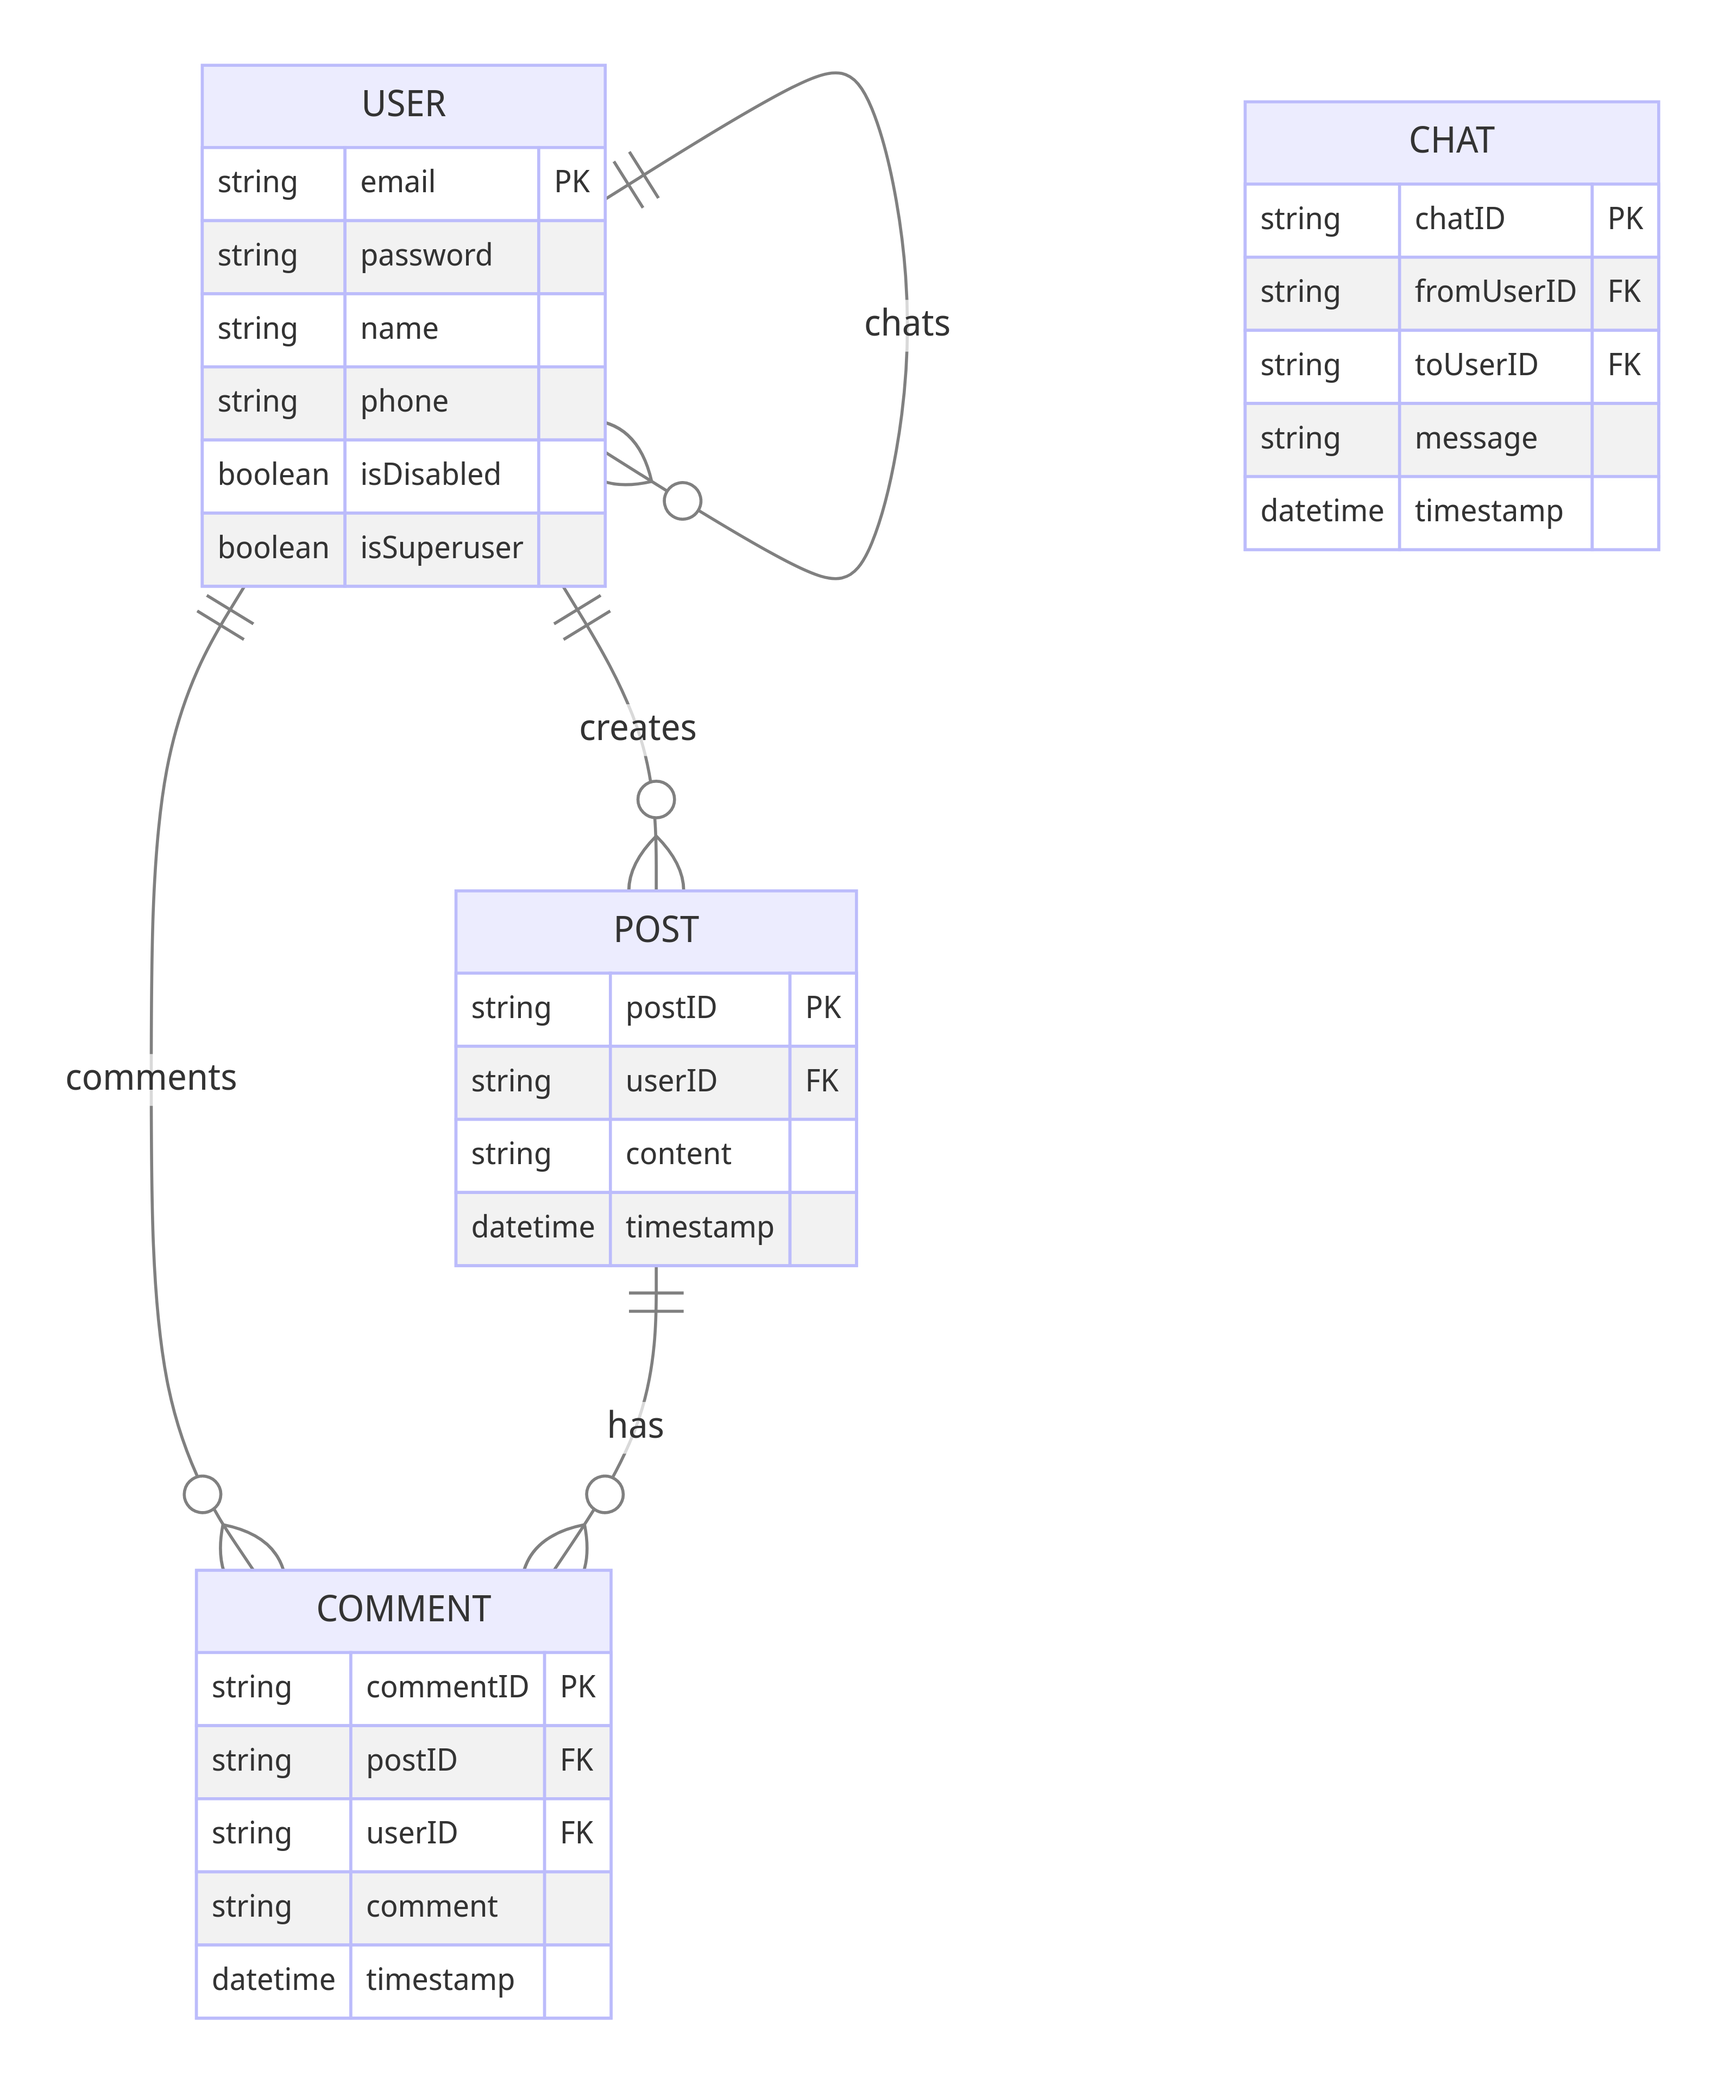
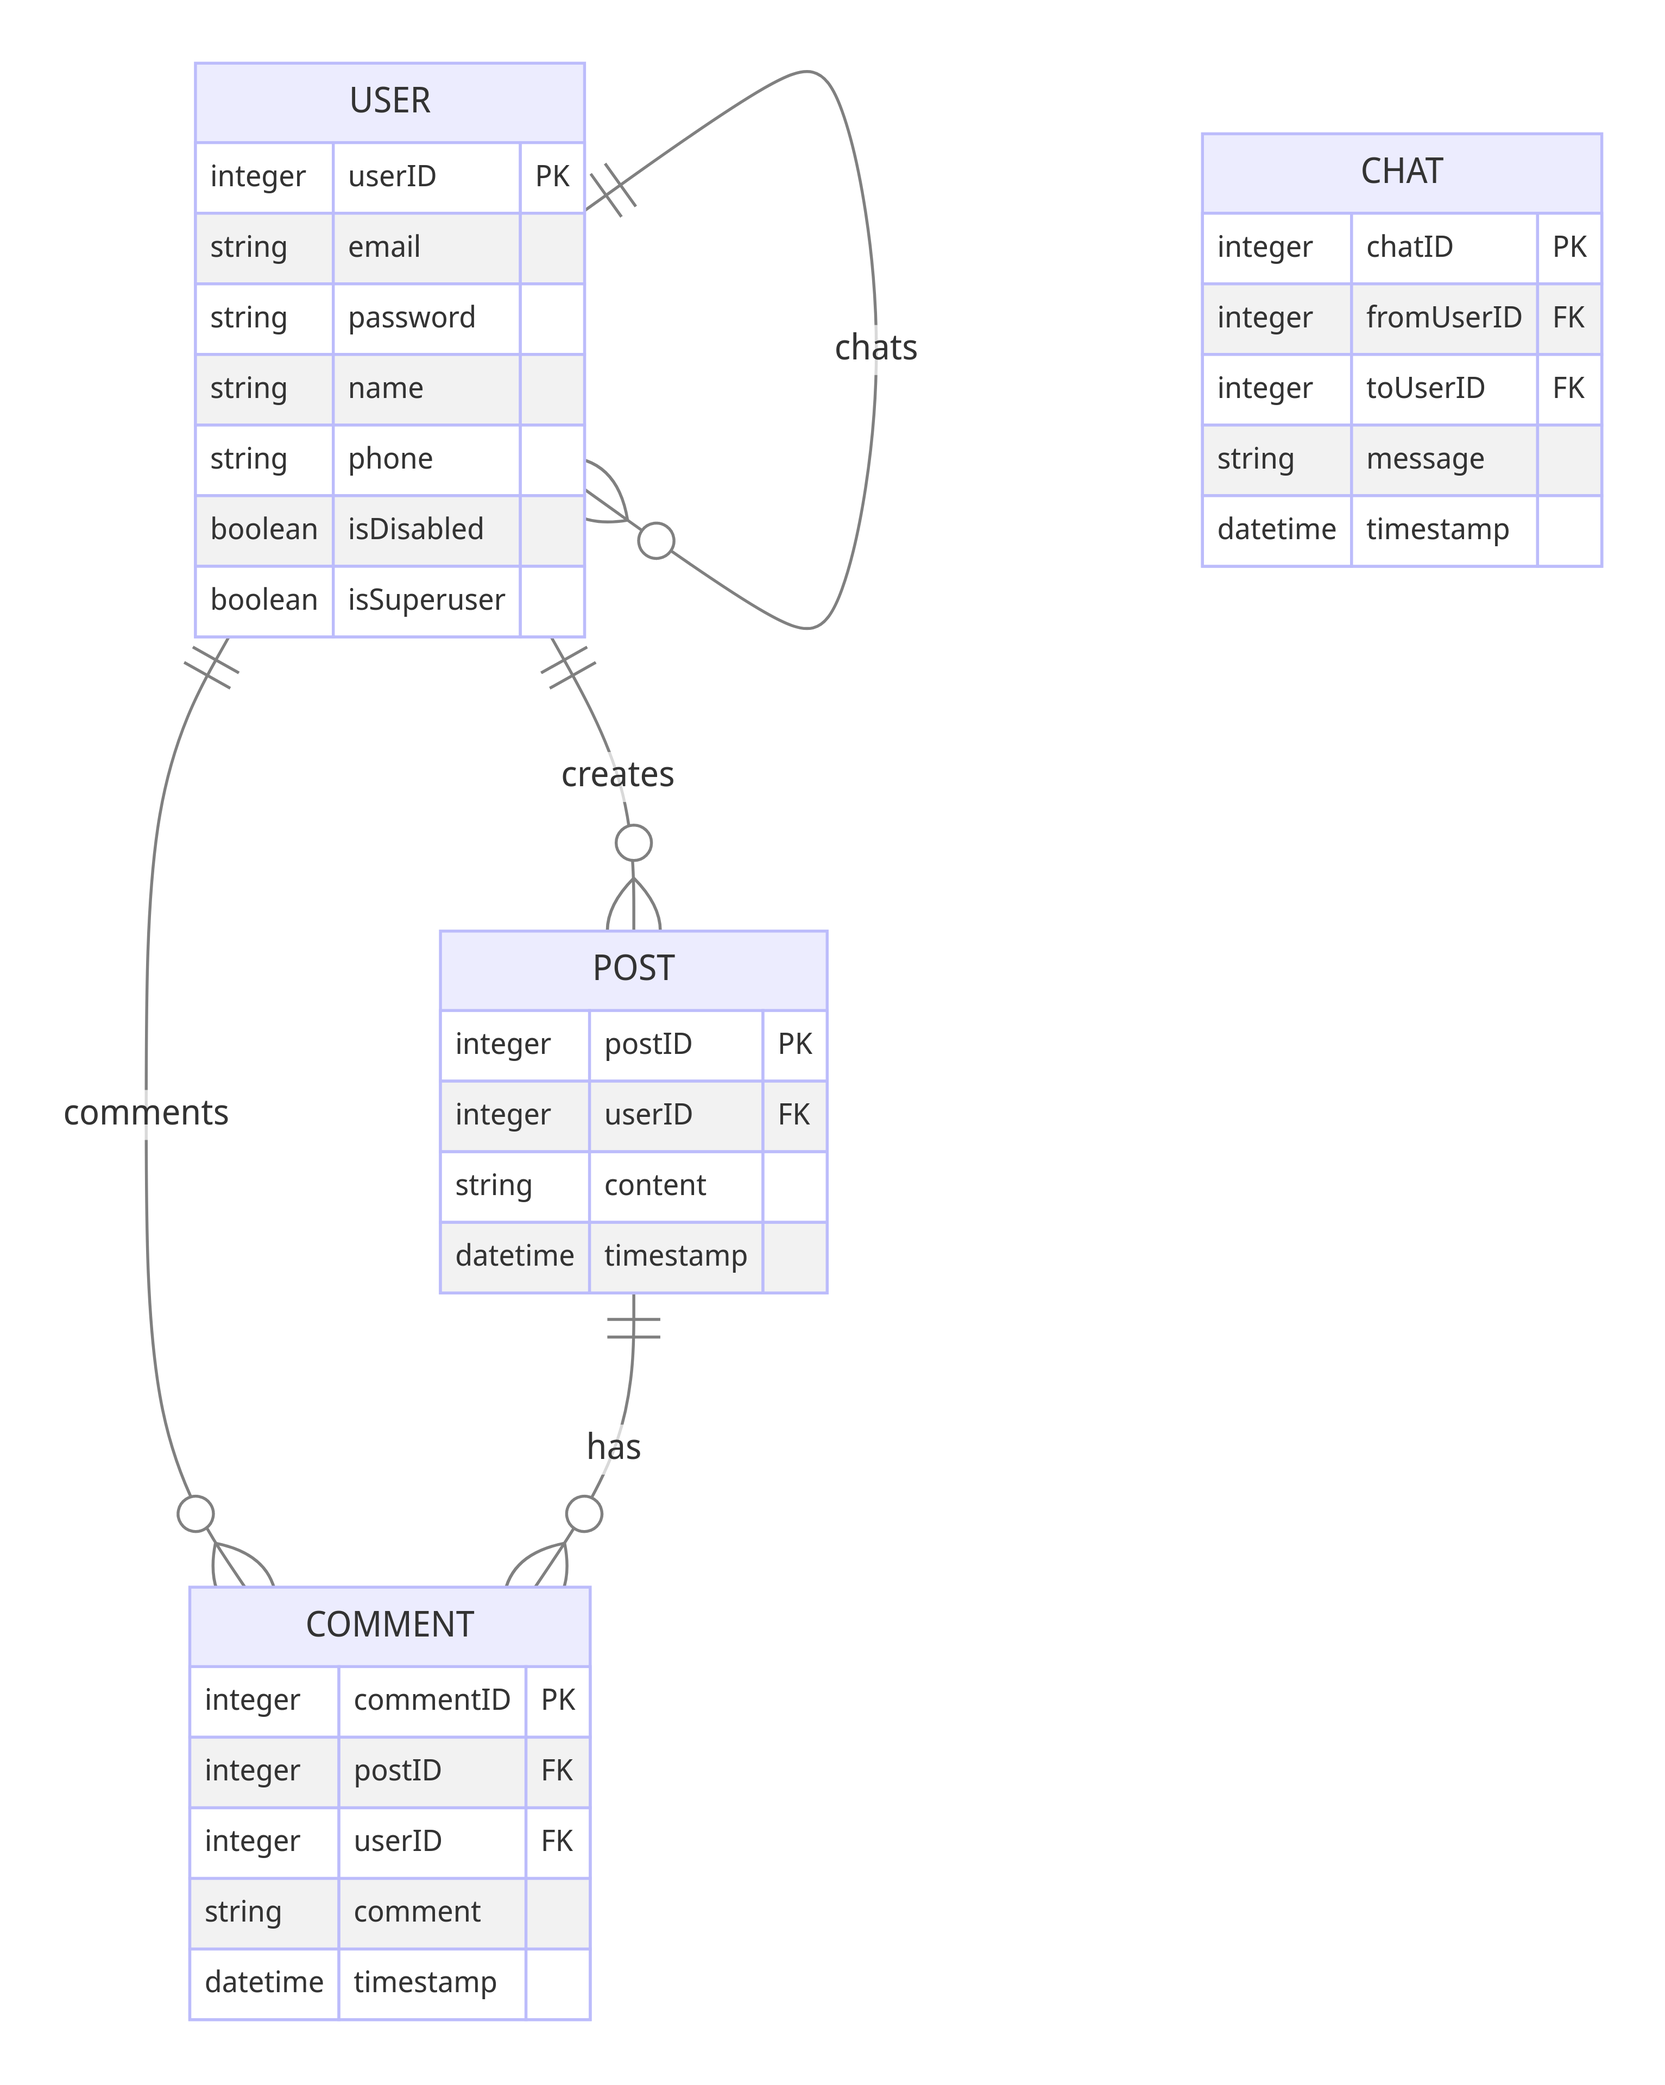
Updated the readme file Updated the ER diagram Created DDL statements

diff --git a/README.md b/README.md
@@ -92,12 +92,18 @@ The system will have two roles.
    * Finish the architecture diagram. - Phani
    * Finish the database schema design. - Phani
    * Create the SQL files for DDL statements and to insert some seed data. - Phani
+   * Create Wireframes - Rohith
    * Code for the application (both frontend (using bootstrap for the frontend) and backend)
-      * Finalize Registration Page
-      * Finalize Login Page
-      * Change password page.
-      * Edit profile page.
-      * Home page with list of posts.
+      * Finalize Registration Page - Sravan
+      * Finalize Login Page - Sravan
+      * Change password page. - Sravan
+         * Should be inside profile page
+         * Should have CSRF protection.
+      * Edit profile page. - Rohith
+         * Should be inside profile page.
+      * Home page with list of posts. - Jash
+         * Should include a navbar with links to profile page, chat page, logout.
+         * Just list the posts. We will work on comments in the next sprint.
 4. Sprint - 2
 5. Sprint - 3
 6. Video Demo & Report Submission.
@@ -116,7 +122,14 @@ Duration: 18/03/2024-24/03/2024
 ### Sprint 1
 Duration: 25/03/2024-31/03/2024
 #### Completed Tasks: 
-1. 
+0. Update the README.md structures
+   * Created Roadmap
+   * Planned Sprint 1
+   * Divided the tasks
+1. Created an architecture diagram realizing all the use cases.
+2. Created an Entity Relation Ship Diagram that explains the Database Schema.
+3. Crated Database DDL Statements
+
 #### Contributions: 
 1. Member 1, 5 commits, 4 hours, contributed in generating database and reprository and ssl key's and certificate and sample html file.
 2. Phani Gopaluni, 3 commits, 4 hours, contributed in generating sample.html file and editing README.md
